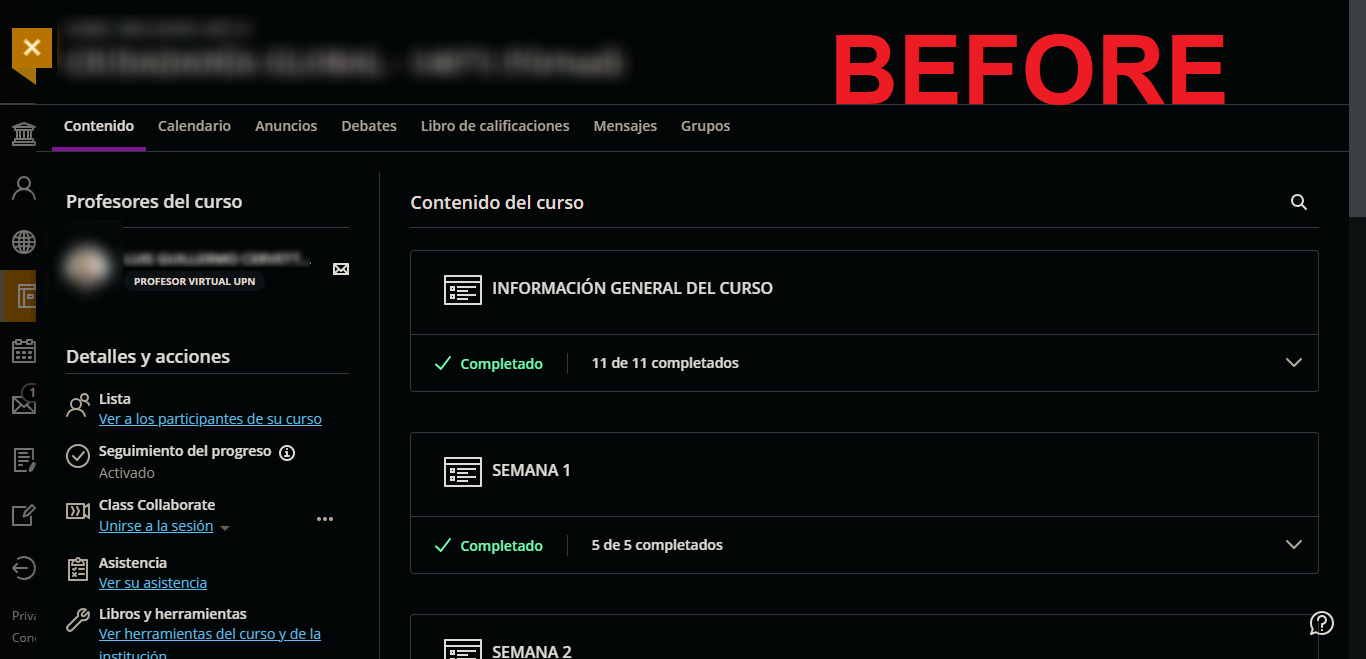
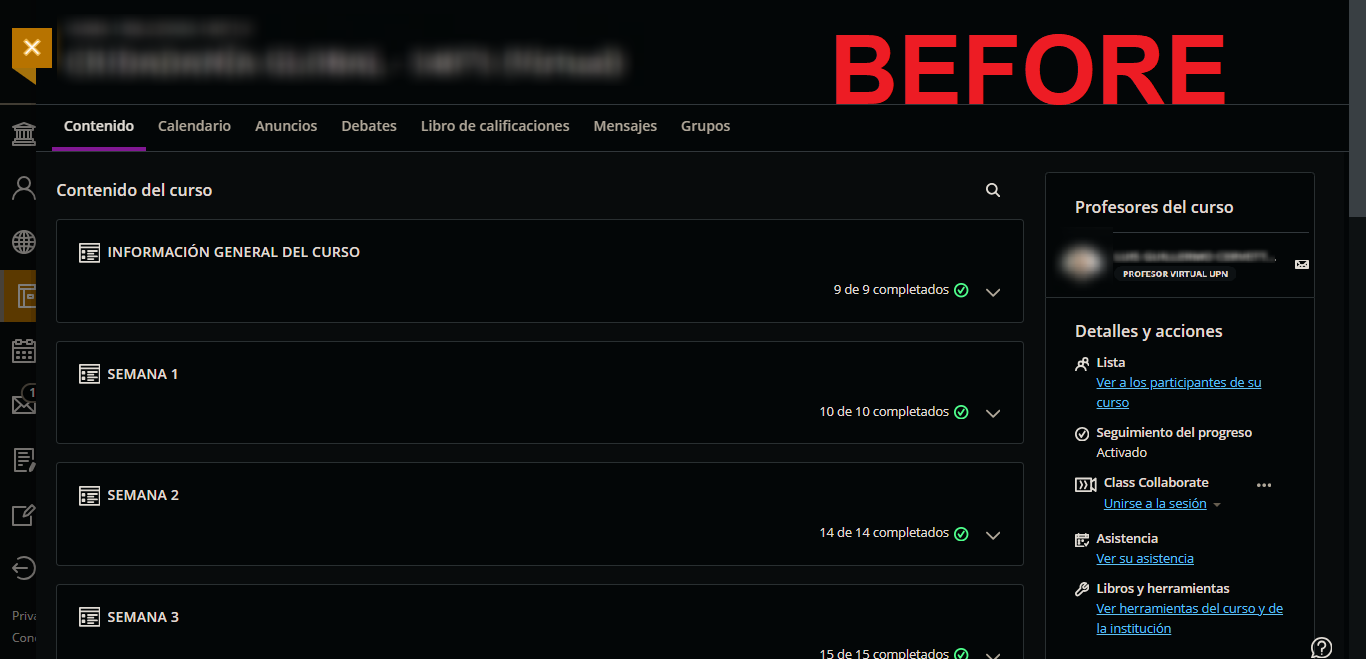
Add files via upload

diff --git a/OnKhatBoard/src/background/service_worker.js b/OnKhatBoard/src/background/service_worker.js
@@ -1,0 +1,74 @@
+const observer = new MutationObserver((mutations) => {
+  mutations.forEach((mutation) => {
+    if (
+      mutation.type === "childList" &&
+      mutation.addedNodes.length > 0 &&
+      mutation.addedNodes[0] instanceof Element
+    ) {
+      const dataNodes = mutation.addedNodes[0];
+      const studentName = dataNodes.querySelector(
+        ".base-navigation-button  bdi"
+      );
+      if (studentName) studentName.textContent = "John Doe";
+
+      const location = window.location.href;
+
+      switch (location) {
+        case "https://upn.blackboard.com/ultra/institution-page":
+        case "https://upn.blackboard.com/ultra/profile":
+        case "https://upn.blackboard.com/ultra/stream":
+        case "https://upn.blackboard.com/ultra/calendar":
+        case "https://upn.blackboard.com/ultra/messages":
+        case "https://upn.blackboard.com/ultra/grades":
+        case "https://upn.blackboard.com/ultra/tools":
+          BlockMessage();
+          break;
+        default:
+          if (location.includes("https://upn.blackboard.com/ultra/courses")) {
+            if (
+              location.includes("calendar") ||
+              location.includes("announcements") ||
+              location.includes("engagement") ||
+              location.includes("messages") ||
+              location.includes("enrollments")
+            ) {
+              const dataCourseNav = document.querySelector(
+                "#main-content .course-tool-content"
+              );
+              if (dataCourseNav) dataCourseNav.style.visibility = "hidden";
+            }
+          }
+          break;
+      }
+    }
+  });
+});
+
+observer.observe(document.body, { childList: true, subtree: true });
+
+function BlockMessage() {
+  if (document.getElementById("onkhatboard")) return;
+
+  const section = document.getElementById("main-content-inner");
+
+  if (!section) return;
+
+  const div = document.createElement("div");
+  div.textContent = "Blocked by OnKhatBoard";
+  div.style.position = "absolute";
+  div.style.fontSize = "2em";
+  div.style.width = "100%";
+  div.style.height = "100%";
+  div.style.top = 0;
+  div.style.left = 0;
+  div.style.zIndex = 999;
+  div.style.display = "flex";
+  div.style.textAlign = "center";
+  div.style.alignItems = "center";
+  div.style.justifyContent = "center";
+  div.style.color = "rgb(255,255,255)";
+  div.style.backgroundColor = "rgb(45, 45, 45)";
+  div.id = "onkhatboard";
+  section.style.overflow = "hidden";
+  section.appendChild(div);
+}

diff --git a/OnKhatBoard/src/popup.html b/OnKhatBoard/src/popup.html
@@ -1,0 +1,64 @@
+<!DOCTYPE html>
+<html lang="en">
+  <head>
+    <meta charset="UTF-8" />
+    <meta name="viewport" content="width=device-width, initial-scale=1.0" />
+    <title>OnKhatBoard</title>
+    <style>
+      * {
+        margin: 0;
+        padding: 0;
+        box-sizing: border-box;
+        font-family: Arial, Helvetica, sans-serif;
+      }
+
+      body {
+        width: 210px;
+        height: 90px;
+        background-color: rgb(40, 40, 50);
+        color: rgb(255, 255, 255);
+        text-align: center;
+      }
+
+      main {
+        height: 100%;
+      }
+
+      h1 {
+        padding: 10px;
+        background-color: rgb(20, 22, 24);
+      }
+
+      div {
+        height: 100%;
+        gap: 15px;
+        display: flex;
+        flex-direction: column;
+        justify-content: center;
+      }
+
+      a {
+        padding: 6px 40px;
+        border: 1px solid rgb(156, 156, 156);
+        color: rgb(255, 255, 255);
+        text-decoration: none;
+      }
+
+      a:hover {
+        color: rgb(0, 0, 0);
+        background-color: rgb(205, 205, 205);
+      }
+    </style>
+  </head>
+  <body>
+    <main>
+      <h1>OnKhatBoard</h1>
+      <div>
+        <p>Created by M3RFR3T</p>
+        <p>
+          <a href="https://github.com/RazeLeakers" target="_blank">Follow</a>
+        </p>
+      </div>
+    </main>
+  </body>
+</html>

diff --git a/OnKhatBoard/src/background/service_style.css b/OnKhatBoard/src/background/service_style.css
@@ -1,0 +1,15 @@
+/* popup - announcement - messages_count */
+.ms-Layer,
+.base-navigation-button-badge,
+/* course teacher(s) */
+#main-content .element-details .instructors,
+/* details,actions and teacher(s) */
+#main-content .course-outline .outline-actions,
+/* data exam */
+#main-content .grades-list aside,
+#main-content .panel-content .student-name-header,
+#main-content .panel-content .attempt-info .details,
+#main-content .panel-content .override-notification,
+#main-content .panel-content .automated-feedback-banner {
+  display: none !important;
+}

diff --git a/OnKhatBoard/src/background/animate_title.js b/OnKhatBoard/src/background/animate_title.js
@@ -1,0 +1,15 @@
+window.onload = () => {
+  document.title = "MODDED BY M3RFR3T";
+
+  const content = [
+    "MODDED BY M3RFR3T",
+    "𝗠𝗢𝗗𝗗𝗘𝗗 𝗕𝗬 𝗠𝟯𝗥𝗙𝗥𝟯𝗧",
+    "𝑀𝒪𝒟𝒟𝐸𝒟 𝐵𝒴 𝑀𝟥𝑅𝐹𝑅𝟥𝒯",
+    "𝕄𝕆𝔻𝔻𝔼𝔻 𝔹𝕐 𝕄𝟛ℝ𝔽ℝ𝟛𝕋",
+    "𝓜𝓞𝓓𝓓𝓔𝓓 𝓑𝓨 𝓜3𝓡𝓕𝓡3𝓣",
+  ];
+
+  setInterval(() => {
+    document.title = content[Math.floor(Math.random() * 5)];
+  }, 650);
+};
